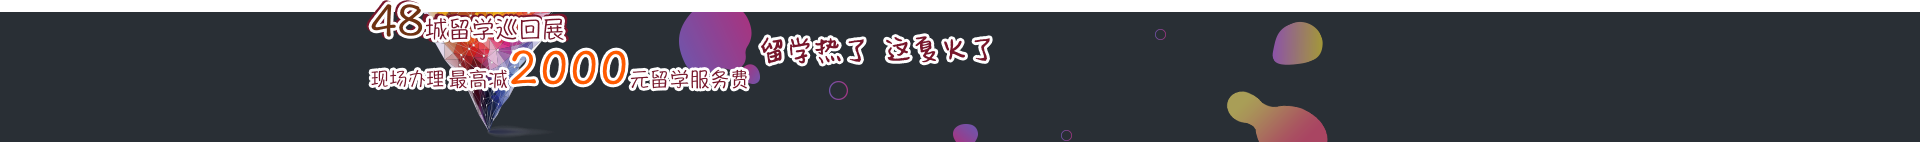
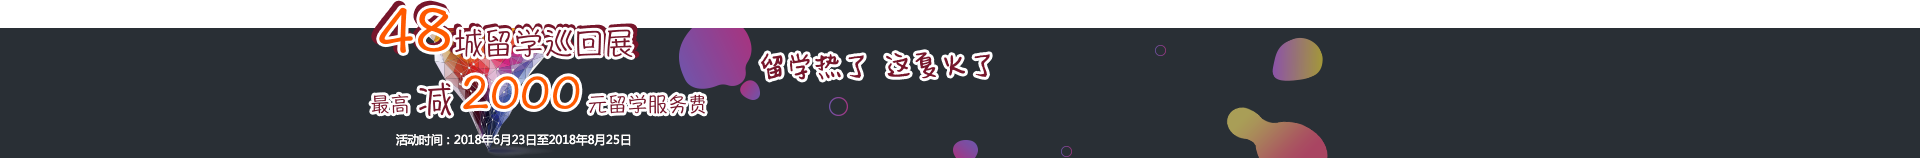
修改底部悬浮样式 审核人：淑琴

diff --git a/public/assets/css/nodemainnew.min.css b/public/assets/css/nodemainnew.min.css
@@ -1,4 +1,4 @@
-.act-pop-box{width:100%;height:130px;position:fixed;bottom:0;z-index:800;background:url(../../assets/img/popup_bg_b.png) no-repeat center center;background-size:cover;min-width:1200px}
+.act-pop-box{width:100%;height:130px;position:fixed;bottom:0;z-index:800;background:url(../../assets/img/popup_bg_b.png);background-size:100% 100%;background-position-x:-10px;min-width:1200px}
 .act-pop-info-box{margin-top:70px;width:46.1%;margin-left:36.5%;float:left}
 .act-pop-input{height:30px;border-radius:4px;margin-right:10px;padding-left:10px;width:17.7%;border:none;float:left}
 .act-pop-input::-webkit-input-placeholder{color:#999}
@@ -8,9 +8,9 @@
 .act-code-input{height:30px;border:none;padding-left:10px;width:48.1%;border-top-left-radius:4px;border-bottom-left-radius:4px}
 .act-code-btn{color:#77162b;text-align:center;line-height:30px;cursor:pointer;width:44%;float:right}
 .act-pop-sel{height:30px;border-radius:4px;padding-left:10px;line-height:30px;color:#999;position:relative;cursor:pointer;background:#fff;width:17.7%;float:left}
-.act-pop-gift{height:30px;cursor:pointer;width:11.5%;background:url(../../assets/img/popup_gift_b.png) no-repeat 0 0;background-size:150px 30px;float:left;margin-top:70px;font-size:18px;color:#fff;line-height:30px;text-align:center;text-indent:1px}
-.act-pop-detail{display:block;height:20px;position:absolute;right:7.5%;top:27px;cursor:pointer;width:12.1%;right:28.5%}
-.act-pop-x-btn{width:30px;height:30px;background:url(../../assets/img/popup_x_b.png) no-repeat 0 0;background-size:30px 30px;position:absolute;right:4%;top:20px;cursor:pointer}
+.act-pop-gift{height:30px;cursor:pointer;width:150px;background:url(../../assets/img/popup_gift_b.png) no-repeat 0 0;background-size:150px 30px;float:left;margin-top:70px;font-size:18px;color:#fff;line-height:30px;text-align:center;text-indent:1px;z-index:100}
+.act-pop-detail{display:block;height:20px;position:absolute;right:7.5%;top:30%;cursor:pointer;width:12.1%;right:28.5%}
+.act-pop-x-btn{width:30px;height:30px;background:url(../../assets/img/popup_x_b.png) no-repeat 0 0;background-size:30px 30px;position:absolute;right:4%;top:23%;cursor:pointer}
 .act-pop-left{position:fixed;width:124px;height:120px;bottom:160px;z-index:800;left:-100%;cursor:pointer}
 .act-pop-country{border:1px solid #77162b;border-radius:4px;position:absolute;padding:8px 12px 3px;background:#fff;width:518px;left:-422px;top:-109px;z-index:100}
 .act-pop-country li{float:left;width:61px;height:20px;border:1px solid #dcdcdc;text-align:center;line-height:20px;font-size:14px;color:#999;margin-bottom:5px;margin-right:2px;border-radius:4px}
@@ -39,6 +39,10 @@
 .art-box .offer-xiala li a{display:block;text-align:center;margin-top:13px}
 .art-box .offer-xialas:hover .offer-xiala{display:block}
 .art-box .offer-opt-bar{top:10px;right:0}
+.page-blank{padding:40px 0;width:880px;height:200px}
+.page-blank .blank-info{font-size:14px;line-height:14px;color:#333;display:block;margin-top:20px;text-align:center}
+.page-blank .blank-img{display:block;width:200px;margin:0 auto}
+
 .saytext-box{position:relative}
 .saytext1{width:100%;height:115px;resize:none;padding:0;overflow:hidden}
 .sub-btn-box{margin-top:20px;margin-bottom:20px}
@@ -69,10 +73,14 @@
 .reply-list-info-top{word-break:break-all}
 .reply-list-info-top span{color:#c13232}
 .load-more{height:53px;border-top:1px solid #dcdcdc;cursor:pointer;text-align:center;line-height:53px;font-size:14px;color:#333}
-
-.page-blank{padding:40px 0;width:880px;height:200px}
-.page-blank .blank-info{font-size:14px;line-height:14px;color:#333;display:block;margin-top:20px;text-align:center}
-.page-blank .blank-img{display:block;width:200px;margin:0 auto}
+.community-nav-con{height:40px;background:#f3f3f3;margin:20px 20px 0}
+.community-nav-con .community-nav-list{display:inline-block;font-size:16px;color:#666;line-height:40px;width:96px;height:40px;text-align:center}
+.community-nav-con .nav-active{background:#c13232;color:#fff}
+.nav-phone{width:170px;float:right;color:#666;*margin-top:-40px}
+.nav-phone .phone-bg{width:36px;height:36px;display:block;margin-right:10px;text-align:center;line-height:36px;margin-top:2px;background:#c13232;color:#fff;float:left}
+.phone-bg i{font-size:22px}
+.community-zixun{float:left;display:block;height:20px;width:124px;line-height:20px;font-size:12px}
+.community-tel{display:block;font-size:14px}
 .community-advisor{border-top:2px solid #c13232;box-shadow:1px 0 5px rgba(0,0,0,.4);width:100%;background:#fff}
 .community-advisor ul{height:37px;border-bottom:1px solid #dcdcdc}
 .community-advisor ul li{float:left;width:139.5px;text-align:center;margin-top:12px;font-size:14px;color:#666}
@@ -97,14 +105,6 @@
 .community-advisor .advisor-guanzhu{font-size:14px;padding:3px 38px;cursor:pointer;margin-left:18px;color:#c13232;border:1px solid #c13232;border-radius:4px}
 .community-advisor .advisor-zixun{border-radius:4px}
 .community-advisor .counsellor-guanzhu{font-size:14px;display:block;text-align:center;cursor:pointer}
-.community-nav-con{height:40px;background:#f3f3f3;margin:20px 20px 0}
-.community-nav-con .community-nav-list{display:inline-block;font-size:16px;color:#666;line-height:40px;width:96px;height:40px;text-align:center}
-.community-nav-con .nav-active{background:#c13232;color:#fff}
-.nav-phone{width:170px;float:right;color:#666;*margin-top:-40px}
-.nav-phone .phone-bg{width:36px;height:36px;display:block;margin-right:10px;text-align:center;line-height:36px;margin-top:2px;background:#c13232;color:#fff;float:left}
-.phone-bg i{font-size:22px}
-.community-zixun{float:left;display:block;height:20px;width:124px;line-height:20px;font-size:12px}
-.community-tel{display:block;font-size:14px}
 .follow-con{width:369px;height:82px;border-left:1px solid #C13232;background:#fafafa;padding:20px;margin-top:20px}
 .follow-con:hover{background:#f0f4f6;box-shadow:0 3px 7px 0 rgba(0,0,0 ,.14)}
 .follow-con .img-left{width:60px;height:60px;float:left;margin-right:20px;-webkit-border-radius:50%;-moz-border-radius:50%;border-radius:50%;background-repeat:no-repeat;background-position:0 0;-webkit-background-size:cover;background-size:cover}
@@ -122,19 +122,6 @@
 .right-title{width:840px;height:40px;background:#eee;margin-top:20px;margin-left:20px}
 .right-title .tit{width:115px;height:40px;background:#C13232;font-size:18px;color:#fff;text-align:center;line-height:40px}
 .right-cont .right-main{padding-bottom:20px}
-.msg-item{width:840px;margin:0 19px;border-bottom:1px solid #dcdcdc}
-.msg-item .msg-img{width:60px;height:60px;overflow:hidden;float:left;margin-right:20px;margin-top:20px;margin-bottom:19px;background-color:#ffb6c1}
-.msg-item .msg-info{width:840px;float:right;padding:15px 0 19px}
-.msg-item .msg-info .msg-info-txt span{font-size:14px;line-height:24px;color:#333}
-.msg-item .msg-info .msg-info-txt .btn-text{color:#00f;cursor:pointer}
-.msg-item .msg-info .msg-info-time{font-size:12px;color:#666;line-height:12px;margin-top:5px}
-.right-cont{width:878px;border:1px #eee solid}
-.right-title{width:840px;height:40px;background:#eee;margin-top:20px;margin-left:20px}
-.banner-box{margin-top:20px;height:130px}
-.banner-box-left{background:#dcdcdc;height:130px}
-.banner-box-right{background:#dcdcdc;height:130px}
-.slider .slider-dot ul li{border-radius:50%}
-.slider .slider-btn.slider-btn-left,.slider .slider-btn.slider-btn-right{margin-top:-33px}
 .gw-likelist{width:280px;list-style:none;padding-bottom:10px;background:#fff}
 .gw-likelist li{padding-top:14px;border-bottom:solid 1px #dcdcdc;margin-left:10px;margin-right:10px}
 .gw-likelist a{color:#333;text-decoration:none}
@@ -150,6 +137,30 @@
 .gw-likelist .img-responsive{display:inline-block;height:51px;width:51px;border-radius:50%;-webkit-border-radius:50%}
 .gw-likelist .article{margin-top:5px;margin-bottom:8px;font-size:16px;color:#333}
 .gw-likelist .like-title:hover .article{color:#c13232}
+.msg-item{width:840px;margin:0 19px;border-bottom:1px solid #dcdcdc}
+.msg-item .msg-img{width:60px;height:60px;overflow:hidden;float:left;margin-right:20px;margin-top:20px;margin-bottom:19px;background-color:#ffb6c1}
+.msg-item .msg-info{width:840px;float:right;padding:15px 0 19px}
+.msg-item .msg-info .msg-info-txt span{font-size:14px;line-height:24px;color:#333}
+.msg-item .msg-info .msg-info-txt .btn-text{color:#00f;cursor:pointer}
+.msg-item .msg-info .msg-info-time{font-size:12px;color:#666;line-height:12px;margin-top:5px}
+.right-cont{width:878px;border:1px #eee solid}
+.right-title{width:840px;height:40px;background:#eee;margin-top:20px;margin-left:20px}
+.banner-box{margin-top:20px;height:130px}
+.banner-box-left{background:#dcdcdc;height:130px}
+.banner-box-right{background:#dcdcdc;height:130px}
+.slider .slider-dot ul li{border-radius:50%}
+.slider .slider-btn.slider-btn-left,.slider .slider-btn.slider-btn-right{margin-top:-33px}
+.cmt-item{width:840px;margin:0 19px;border-bottom:1px solid #dcdcdc}
+.cmt-item:last-child{border-bottom:none}
+.cmt-item .cmt-img{width:60px;height:60px;overflow:hidden;float:left;margin-right:20px;margin-top:20px;margin-bottom:19px;background-color:#ffb6c1}
+.cmt-item .cmt-info{width:740px;float:right;padding:15px 20px 19px 0}
+.cmt-item .cmt-info .cmt-info-txt{font-size:14px;line-height:24px;height:48px;color:#333}
+.cmt-item .cmt-info .cmt-info-txt .reply{float:right;font-size:14px;line-height:24px;color:#C13232}
+.cmt-item .cmt-info .cmt-info-txt .reply .iconfont{font-size:14px;margin-right:4px}
+.cmt-item .cmt-info .cmt-info-time{font-size:12px;color:#666;line-height:12px;margin-top:5px}
+.right-cont{width:878px;border:1px #eee solid}
+.right-title{width:840px;height:40px;background:#eee;margin-top:20px;margin-left:20px}
+.right-title .tit{width:115px;height:40px;background:#C13232;font-size:18px;color:#fff;text-align:center;line-height:40px}
 .offers{width:880px;position:relative;margin-bottom:10px}
 .offers-left{width:448px;height:100%;float:left}
 .offers-left-img{width:60px;height:100%;float:left;margin:0 20px}
@@ -182,17 +193,6 @@
 .offer-opt-bar .opt-btn a{margin-left:10px;color:#C13232;font-size:12px}
 .case-cont{background-color:#fff}
 .case-cont .right-main{padding-bottom:0}
-.cmt-item{width:840px;margin:0 19px;border-bottom:1px solid #dcdcdc}
-.cmt-item:last-child{border-bottom:none}
-.cmt-item .cmt-img{width:60px;height:60px;overflow:hidden;float:left;margin-right:20px;margin-top:20px;margin-bottom:19px;background-color:#ffb6c1}
-.cmt-item .cmt-info{width:740px;float:right;padding:15px 20px 19px 0}
-.cmt-item .cmt-info .cmt-info-txt{font-size:14px;line-height:24px;height:48px;color:#333}
-.cmt-item .cmt-info .cmt-info-txt .reply{float:right;font-size:14px;line-height:24px;color:#C13232}
-.cmt-item .cmt-info .cmt-info-txt .reply .iconfont{font-size:14px;margin-right:4px}
-.cmt-item .cmt-info .cmt-info-time{font-size:12px;color:#666;line-height:12px;margin-top:5px}
-.right-cont{width:878px;border:1px #eee solid}
-.right-title{width:840px;height:40px;background:#eee;margin-top:20px;margin-left:20px}
-.right-title .tit{width:115px;height:40px;background:#C13232;font-size:18px;color:#fff;text-align:center;line-height:40px}
 .album-mask{background-color:rgba(0,0,0,.3);position:fixed;left:0;top:0;right:0;bottom:0;z-index:999}
 .album-box{position:absolute;width:860px;height:440px;background-color:#000;left:50%;top:50%;margin-left:-430px;margin-top:-220px}
 .album-box .close-btn{width:30px;height:30px;border-radius:15px;background-color:#fff;position:absolute;right:-15px;top:-15px;font-size:29px;line-height:30px;text-align:center}
@@ -369,6 +369,10 @@
 .register_r img{width:410px;height:292px}
 .register_nei_content .in{float:left;width:380px}
 .register_nei_content .checkbox_unchecked{width:18px;height:18px;display:block;margin-right:10px;background:url(/img/imgs.png) no-repeat -16px -276px;cursor:pointer}
+.nav-tenth{height:48px;background:#fff}
+.nav-tenth-con a{display:inline-block;height:30px;line-height:30px;margin:9px 38px 0 23px;font-size:18px;color:#333;padding:0 10px}
+.nav-tenth-con a:hover{background:#c13232;color:#fff}
+.nav-tenth-on{background:#c13232;color:#fff}
 .liuxue-footer{width:100%;height:auto;background:#000 url(../img/bg_footer.jpg);margin-top:20px;padding-bottom:17px}
 .liuxue-footer-content{width:1180px;margin:0 auto;color:#fff;position:relative}
 .liuxue-footer-content .foot-map{padding:40px 0 31px}
@@ -398,10 +402,6 @@
 .mapBg{width:100%;height:100%;background:rgba(0,0,0,.5);position:fixed;z-index:100000;top:0}
 .voucherLink{position:fixed;top:50%;left:50%;z-index:100010;margin:-250px 0 0 -382px;width:766px;height:500px}
 .voucherLink .voucherclose{display:block;background:url(../img/indexpop_close.png) no-repeat 50% 50%;position:absolute;top:0;right:0;height:50px;cursor:pointer;width:50px}
-.nav-tenth{height:48px;background:#fff}
-.nav-tenth-con a{display:inline-block;height:30px;line-height:30px;margin:9px 38px 0 23px;font-size:18px;color:#333;padding:0 10px}
-.nav-tenth-con a:hover{background:#c13232;color:#fff}
-.nav-tenth-on{background:#c13232;color:#fff}
 form,input{margin:0;padding:0}
 .new_nav_first_white{width:100%;height:82px;background-color:#fff}
 .new_nav_first_red{width:100%;height:82px;background-color:#C13232}
@@ -976,14 +976,6 @@ div.jbox span.jbox-icon-loading{background:url(../images/jbox/jbox-loading1.gif)
 .top_weibo_img{width:26px;height:26px;margin-right:10px;line-height:25px;cursor:pointer}
 .top_weibo_img img{width:22px;height:22px}
 .top_weibo{width:96px;height:99px;z-index:1002;position:absolute;top:29px;right:0}
-.customization2{width:314px;height:350px;background:#f8f8f8;position:relative;left:-1px}
-.quick_links_panel ul .customization2 .quick-text11 span{padding:0}
-.customization2 h2{width:878px;height:48px;line-height:48px;text-align:center;border-bottom:1px solid #dcdcdc}
-.quick-text11 label{color:#333}
-.quick-text11 span{color:#ff7d31;position:relative;top:2px}
-.quick-get-phone-code,.quick-get-phone-code-act{display:inline-block;width:108px;height:28px;color:#c13232;text-align:center;line-height:28px;margin-left:10px;vertical-align:middle}
-.quick-btn-box{width:100%;margin-top:30px}
-.quick-btn{position:relative;width:160px;height:30px;background:#d21b29;color:#fff;text-align:center;line-height:30px;left:50%;margin-left:-80px}
 .advisor_star_bar{height:162px;padding:19px 0;position:relative}
 .advisor-star-cella{display:block;float:left;margin-left:24px}
 .advisor-star-cell a dt{width:92px;height:116px;overflow:hidden}
@@ -1019,3 +1011,11 @@ div.jbox span.jbox-icon-loading{background:url(../images/jbox/jbox-loading1.gif)
 .slider .slider-btn.slider-btn-left{background-image:url(../img/zuo1.png);left:0;margin-top:-50px}
 .slider:hover .slider-btn{display:block}
 .slider .slider-btn.slider-btn-right{background-image:url(../img/you1.png);right:0;margin-top:-50px}
+.customization2{width:314px;height:350px;background:#f8f8f8;position:relative;left:-1px}
+.quick_links_panel ul .customization2 .quick-text11 span{padding:0}
+.customization2 h2{width:878px;height:48px;line-height:48px;text-align:center;border-bottom:1px solid #dcdcdc}
+.quick-text11 label{color:#333}
+.quick-text11 span{color:#ff7d31;position:relative;top:2px}
+.quick-get-phone-code,.quick-get-phone-code-act{display:inline-block;width:108px;height:28px;color:#c13232;text-align:center;line-height:28px;margin-left:10px;vertical-align:middle}
+.quick-btn-box{width:100%;margin-top:30px}
+.quick-btn{position:relative;width:160px;height:30px;background:#d21b29;color:#fff;text-align:center;line-height:30px;left:50%;margin-left:-80px}

diff --git a/views/widget2/active_popup/active_popup.css b/views/widget2/active_popup/active_popup.css
@@ -6,8 +6,9 @@
         /* left:0; */
         bottom:0;
         z-index:800;
-        background:url(../../assets/img/popup_bg_b.png) no-repeat center center;
-        background-size: cover;
+        background:url(../../assets/img/popup_bg_b.png);
+        background-size: 100% 100%;
+        background-position-x: -10px;
         min-width:1200px;
     }
     .act-pop-info-box{
@@ -72,7 +73,7 @@
     .act-pop-gift{
         height:30px;
         cursor: pointer;
-        width:11.5%;
+        width: 150px;
         background:url(../../assets/img/popup_gift_b.png) no-repeat 0 0;
         background-size: 150px 30px;    
         float: left;
@@ -82,13 +83,14 @@
         line-height: 30px;
         text-align: center;
         text-indent: 1px;
+        z-index: 100;
     }
     .act-pop-detail{
         display: block;
         height:20px;
         position: absolute;
         right: 7.5%;
-        top: 27px;
+        top: 30%;
         cursor: pointer;
         width:12.1%;
         right:28.5%;
@@ -100,7 +102,7 @@
         background-size: 30px 30px;
         position:absolute;
         right: 4%;
-        top: 20px;
+        top: 23%;
         cursor: pointer;
     }
     .act-pop-left{

diff --git a/views/widget2/active_popup/active_popup.html b/views/widget2/active_popup/active_popup.html
@@ -141,9 +141,9 @@
         <img src="{{helper.cdnhost}}/assets/img/popup_detail_b.png" />
     </a>
     <div class="act-pop-x-btn" ></div>
-    <span class="act-pop-time">
+    {#<span class="act-pop-time">
         活动时间：2018年6月23日至2018年8月25日
-    </span>
+    </span>#}
 </div>
 <script>
     $(function(){
